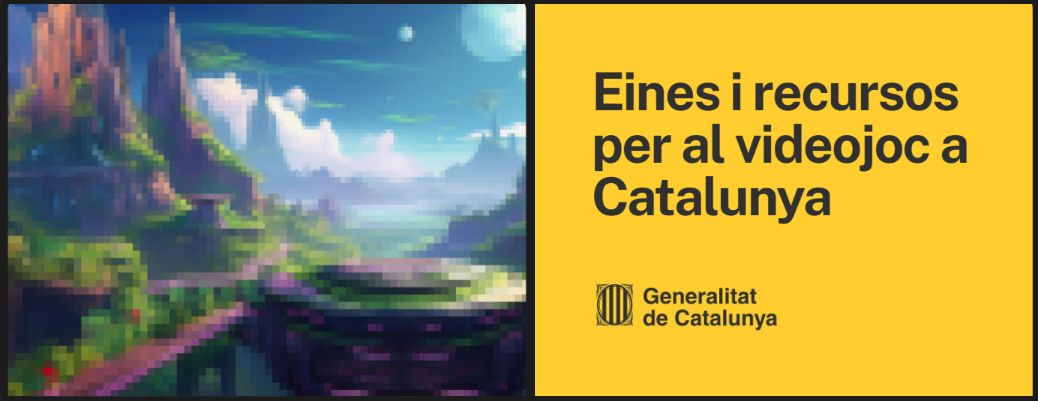
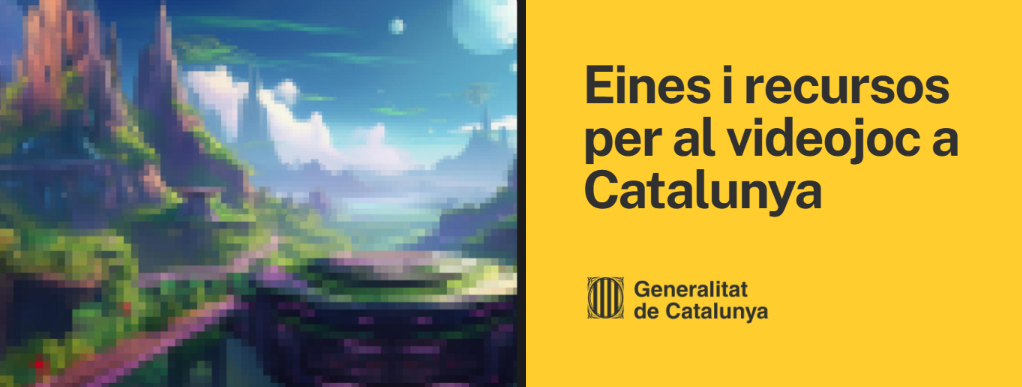
feat: indiedev generalitat

diff --git a/Email Registry/newsletter-devteam/05_newsletter-devteam.html b/Email Registry/newsletter-devteam/05_newsletter-devteam.html
@@ -417,10 +417,31 @@
 
       <!-- Content -->
       <div class="content">
-        <span class="card-title">[Title]</span>
-        <span class="card-subtitle">[Author] - <i>[Meeting]</i> [(DD/MM/YYYY)]</span><div class="ds"></div>
+        <span class="card-title">IndieDevDay 2024</span>
+        <span class="card-subtitle"><i>IndieDevDay</i> (27/09/2024) - (28/09/2024)</span><div class="ds"></div>
 
-        <span>[Content]</span>
+        <span><img src="https://media.beehiiv.com/cdn-cgi/image/fit=scale-down,format=auto,onerror=redirect,quality=80/uploads/asset/file/f6f58163-f2b5-4f8f-b115-f8e08f51595e/IDD_2024.png?t=1728033689" style="border-radius: 6px; border: solid 2px #777777;"></span><div class="ds"></div>
+
+        <span>La IndieDevDay és la fira del videojoc independent més gran d'Espanya, celebrada a Barcelona (<a href="https://www.google.com/maps/place/Carrer+de+Barcelona,+2,+08901+L'Hospitalet+de+Llobregat,+Barcelona/@41.3621366,2.1046816,17z/data=!3m1!4b1!4m6!3m5!1s0x12a4992001aa263d:0x312616335de46b3a!8m2!3d41.3621366!4d2.1046816!16s%2Fg%2F11c5phr18n?entry=ttu&g_ep=EgoyMDI0MTAwMi4xIKXMDSoASAFQAw%3D%3D">c/ de Barcelona, 2, 08901 L'Hospitalet de Llobregat, Barcelona</a>) els dies 27, 28 i 29 de setembre aquest 2024.</span><div class="ds"></div>
+
+        <span>La fira </span>
+      </div>
+
+      <div class="divider"></div>
+
+      <!-- Content -->
+      <div class="content">
+        <span class="card-title">Conferències i xerrades</span>
+        <span class="card-subtitle">Júlia Nogales · Abel Pérez - <i>IndieDevDay</i> (27/09/2024)</span><div class="ds"></div>
+
+        <span>El divendres, el dia professional per empreses i estudiants, l'equip de SIG Games amb l'entrada d'estudiants es va dedicar principalment a assistir a conferències, xerrades i conversar amb els professionals del sector del videojoc. Les conferències a les que es va assistir van ser les següents:</span><div class="ds"></div>
+
+        <span><strong>Eines i recursos per al videojoc a Catalunya</strong></span>
+        <span><i>Generalitat de Catalunya</i></span><div class="ds"></div>
+
+        <img src="https://raw.githubusercontent.com/SIGGames/Resources/main/IndieDevDay/Eines-i-recursos-per-al-videojoc-a-Catalunya.png">
+
+        <span></span>
       </div>
 
       <div class="divider"></div>

diff --git a/Email Registry/newsletter-devteam/04_newsletter-devteam.html b/Email Registry/newsletter-devteam/04_newsletter-devteam.html
@@ -316,7 +316,7 @@
 
 
 <body>
-.  <div class="email-wrapper">
+  <div class="email-wrapper">
     <div class="email-container">
       <div class="init-divider"></div>
       <!-- Header -->
